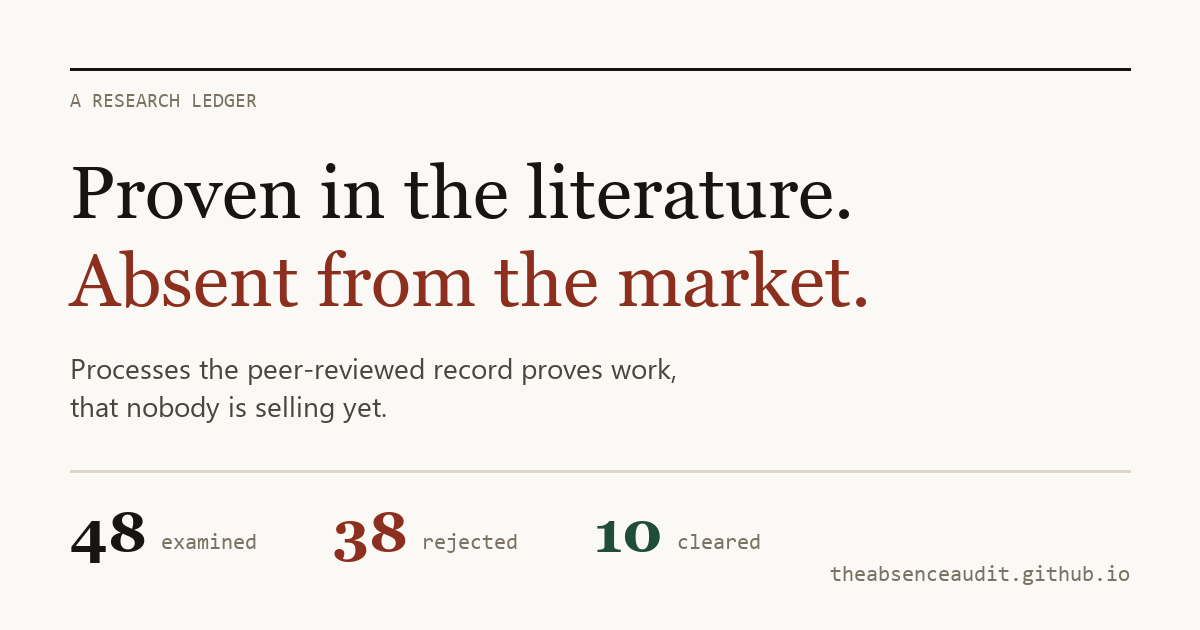
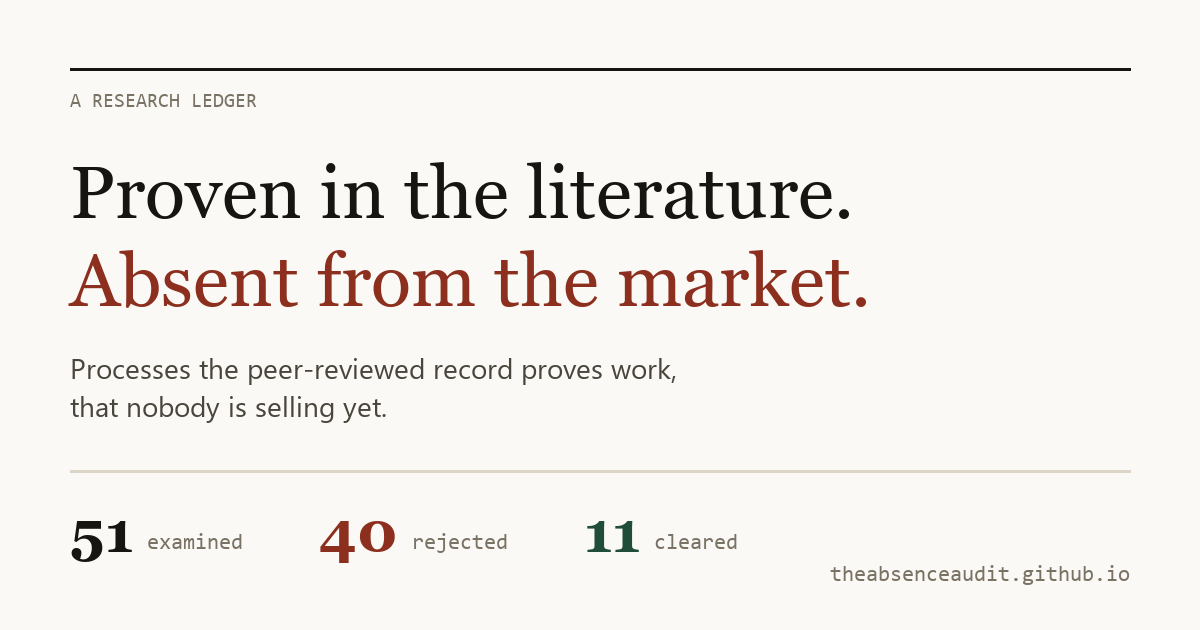
Ledger update 2026-09-01 17:30

Changed region(s): [[0.2467, 0.8143, 0.4317, 0.9048], [0.0617, 0.8143, 0.2158, 0.9048], [0.4933, 0.8143, 0.6475, 0.8746]]

diff --git a/index.html b/index.html
@@ -15,18 +15,18 @@
 <meta property="og:site_name" content="The Absence Audit">
 <meta property="og:url" content="https://theabsenceaudit.com/">
 <meta property="og:title" content="Proven in the literature. Absent from the market.">
-<meta property="og:description" content="48 concepts examined, 38 rejected, 10 cleared. We read the peer-reviewed record for processes that work, cost almost nothing to start, and that nobody is selling — then we try to destroy them, and publish the autopsies.">
+<meta property="og:description" content="51 concepts examined, 40 rejected, 11 cleared. We read the peer-reviewed record for processes that work, cost almost nothing to start, and that nobody is selling — then we try to destroy them, and publish the autopsies.">
 <meta property="og:image" content="https://theabsenceaudit.com/og-image.png">
 <meta property="og:image:secure_url" content="https://theabsenceaudit.com/og-image.png">
 <meta property="og:image:width" content="1200">
 <meta property="og:image:height" content="630">
 <meta property="og:image:type" content="image/png">
-<meta property="og:image:alt" content="The Absence Audit — 48 concepts examined, 38 rejected, 10 cleared">
+<meta property="og:image:alt" content="The Absence Audit — 51 concepts examined, 40 rejected, 11 cleared">
 <meta property="og:locale" content="en_GB">
 
 <meta name="twitter:card" content="summary_large_image">
 <meta name="twitter:title" content="Proven in the literature. Absent from the market.">
-<meta name="twitter:description" content="48 concepts examined, 38 rejected, 10 cleared. The rejections are published in full.">
+<meta name="twitter:description" content="51 concepts examined, 40 rejected, 11 cleared. The rejections are published in full.">
 <meta name="twitter:image" content="https://theabsenceaudit.com/og-image.png">
 <meta name="twitter:image:alt" content="The Absence Audit ledger card">
 
@@ -38,7 +38,7 @@
 
 <link rel="preload" href="/fonts/newsreader-var.woff2" as="font" type="font/woff2" crossorigin>
 <link rel="preload" href="/fonts/ibm-plex-sans-var.woff2" as="font" type="font/woff2" crossorigin>
-<link rel="stylesheet" href="/style.css?v=1788244215">
+<link rel="stylesheet" href="/style.css?v=1788276632">
 
 <script type="application/ld+json">
 {
@@ -56,11 +56,11 @@
       "@type": "Dataset",
       "@id": "https://theabsenceaudit.com/#ledger",
       "name": "The Absence Audit ledger",
-      "description": "48 venture concepts screened against seven gates for scientific backing, commercial absence, unit margins, capital intensity, production velocity, market size and measured superiority over a named incumbent. 38 rejected, 10 cleared. Every rejection is published with its specific failure mode.",
+      "description": "51 venture concepts screened against seven gates for scientific backing, commercial absence, unit margins, capital intensity, production velocity, market size and measured superiority over a named incumbent. 40 rejected, 11 cleared. Every rejection is published with its specific failure mode.",
       "url": "https://theabsenceaudit.com/ledger/",
       "isAccessibleForFree": true,
       "creator": {"@type": "Organization", "name": "The Absence Audit", "url": "https://theabsenceaudit.com/"},
-      "dateModified": "2026-09-01T08:30:15+02:00",
+      "dateModified": "2026-09-01T17:30:32+02:00",
       "keywords": ["venture concepts","peer-reviewed literature","commercial absence","unit economics","technology transfer","research commercialisation"],
       "variableMeasured": [
         {"@type":"PropertyValue","name":"Superiority margin vs named incumbent"},
@@ -137,13 +137,13 @@
 
     <aside class="tally">
       <h2>Ledger to date</h2>
-      <dl><dt>Concepts generated</dt><dd class="big">48</dd>
-<dt>Rejected on evidence</dt><dd class="big kill">38</dd>
-<dt>Survived every gate</dt><dd class="big live">10</dd>
-<dt>Survival rate</dt><dd class="">21%</dd>
-<dt>Citations resolved</dt><dd class="">851</dd>
-<dt>Verified to DOI</dt><dd class="">230</dd>
-<dt>Words of analysis</dt><dd class="">90,685</dd></dl>
+      <dl><dt>Concepts generated</dt><dd class="big">51</dd>
+<dt>Rejected on evidence</dt><dd class="big kill">40</dd>
+<dt>Survived every gate</dt><dd class="big live">11</dd>
+<dt>Survival rate</dt><dd class="">22%</dd>
+<dt>Citations resolved</dt><dd class="">906</dd>
+<dt>Verified to DOI</dt><dd class="">235</dd>
+<dt>Words of analysis</dt><dd class="">97,501</dd></dl>
       <footer>Every figure above is produced by the pipeline itself, not written by hand.
       The rejection count is the honest one.</footer>
     </aside>
@@ -176,7 +176,7 @@
   <div class="wrap">
     <div class="section-head">
       <p class="eyebrow">The ledger</p>
-      <h2>The 10 that survived.</h2>
+      <h2>The 11 that survived.</h2>
       <p>Each one names the incumbent it beats and the measured margin of victory, taken from the cited literature. These are the entries subscribers receive in full — mechanism, operating protocol, economics, absence audit and sources.</p>
     </div>
     <div class="tbl-scroll">
@@ -194,10 +194,11 @@
 <tr><td><span class="concept">Commercial Production of Pediocin PA-1 Biopreservative via Low-CapEx Fermentation</span><span class="disc">Biotechnology / Food Safety</span></td><td class="metric">Nisin (E234)</td><td class="metric">22x lower IC50 against Listeria monocytogenes compared to Nisin (0.10-7.34 ng/mL vs 2.2-781 ng/mL)</td><td class="delta">&gt;22×</td><td class="verdict pass">Cleared</td><td class="row-cta"><a class="row-btn row-btn--buy" href="https://theabsenceaudit.kit.com/products/commercial-production-of-pediocin-pa-1" rel="noopener" aria-label="Buy the full dossier for Commercial Production of Pediocin PA-1 Biopreservative via Low-CapEx Fermentation for $49">Full dossier <span class="row-btn__price">$49</span></a></td></tr>
 <tr><td><span class="concept">Mechanochemical Covalent Triazine Frameworks (CTFs) via Solvent-Free Cyclotrimerization</span><span class="disc">Polymer Chemistry / Water Remediation</span></td><td class="metric">Premium Coconut Shell Granular Activated Carbon (GAC)</td><td class="metric">903.0 mg/g PFOA adsorption capacity vs 43.4 mg/g for Premium GAC</td><td class="delta">&gt;20.8×</td><td class="verdict pass">Cleared</td><td class="row-cta"><a class="row-btn row-btn--buy" href="/ledger/" rel="noopener" aria-label="Buy the Mechanochemical Covalent Triazine Frameworks (CTFs) via Solvent-Free Cyclotrimerization dossier ($49) via Full Ledger Access">Full dossier <span class="row-btn__price">$49</span></a></td></tr>
 <tr><td><span class="concept">Polyimide-Reinforced Silica Aerogel Blankets via Ambient Pressure Drying</span><span class="disc">Materials Science / Thermal Insulation</span></td><td class="metric">Polyurethane (PU) Foam Board</td><td class="metric">14.0 R-value per inch vs 6.5 R-value per inch for Polyurethane foam board</td><td class="delta">&gt;2.15×</td><td class="verdict pass">Cleared</td><td class="row-cta"><a class="row-btn row-btn--buy" href="/ledger/" rel="noopener" aria-label="Buy the Polyimide-Reinforced Silica Aerogel Blankets via Ambient Pressure Drying dossier ($49) via Full Ledger Access">Full dossier <span class="row-btn__price">$49</span></a></td></tr>
-<tr><td><span class="concept">Cement-Free Refractory Castables via Potassium-Activated Metakaolin Geopolymerization</span><span class="disc">Ceramics / Refractory Materials</span></td><td class="metric">Calcium Aluminate Cement (CAC) Castables</td><td class="metric">Categorical elimination of 24-48 hr slow bake heat-up schedule (zero steam spalling) and &gt;2x high-temperature CMOR flexural strength (39.1 MPa)</td><td class="delta">&gt;2×</td><td class="verdict pass">Cleared</td><td class="row-cta"><a class="row-btn row-btn--buy" href="/ledger/" rel="noopener" aria-label="Buy the Cement-Free Refractory Castables via Potassium-Activated Metakaolin Geopolymerization dossier ($49) via Full Ledger Access">Full dossier <span class="row-btn__price">$49</span></a></td></tr></tbody>
+<tr><td><span class="concept">Cement-Free Refractory Castables via Potassium-Activated Metakaolin Geopolymerization</span><span class="disc">Ceramics / Refractory Materials</span></td><td class="metric">Calcium Aluminate Cement (CAC) Castables</td><td class="metric">Categorical elimination of 24-48 hr slow bake heat-up schedule (zero steam spalling) and &gt;2x high-temperature CMOR flexural strength (39.1 MPa)</td><td class="delta">&gt;2×</td><td class="verdict pass">Cleared</td><td class="row-cta"><a class="row-btn row-btn--buy" href="/ledger/" rel="noopener" aria-label="Buy the Cement-Free Refractory Castables via Potassium-Activated Metakaolin Geopolymerization dossier ($49) via Full Ledger Access">Full dossier <span class="row-btn__price">$49</span></a></td></tr>
+<tr><td><span class="concept">Inositol Hexaphosphate (IP6) Substrate Passivation via Ambient Immersion</span><span class="disc">Surface Chemistry</span></td><td class="metric">Zinc Phosphate Conversion Coating</td><td class="metric">ASTM B117 Neutral Salt Spray resistance of 268 hours vs 120 hours for Zinc Phosphate</td><td class="delta">&gt;2.23×</td><td class="verdict pass">Cleared</td><td class="row-cta"><a class="row-btn row-btn--buy" href="/ledger/" rel="noopener" aria-label="Buy the Inositol Hexaphosphate (IP6) Substrate Passivation via Ambient Immersion dossier ($49) via Full Ledger Access">Full dossier <span class="row-btn__price">$49</span></a></td></tr></tbody>
       </table>
     </div>
-    <p style="margin-top:1.6rem"><a href="/ledger/" style="font-weight:600">Search all 48 concepts, including every rejection &rarr;</a></p>
+    <p style="margin-top:1.6rem"><a href="/ledger/" style="font-weight:600">Search all 51 concepts, including every rejection &rarr;</a></p>
   </div>
 </section>
 
@@ -235,14 +236,14 @@
   <div class="wrap">
     <div class="section-head">
       <p class="eyebrow">The graveyard</p>
-      <h2>38 concepts failed. Here is how two of them died.</h2>
+      <h2>40 concepts failed. Here is how two of them died.</h2>
       <p>No other research service will show you this, because showing it means admitting
       most ideas do not survive contact with evidence.</p>
     </div>
     <div class="kills"><article class="kill-item"><p class="kill-code">Voided — dead incumbent</p><h3>Biomanufactured magnetosomes for MRI contrast</h3><p>Genuinely 2.4–3.5× the relaxivity of its named comparator. That comparator was Feridex — withdrawn from the market in 2008. The margin model was anchored to the historical price of a product discontinued for lack of demand. Regulatory path priced at $35M and 84 months.</p></article>
 <article class="kill-item"><p class="kill-code">Voided — straw incumbent</p><h3>Plant-urease enzyme-induced carbonate precipitation</h3><p>Benchmarked against MICP, a rival laboratory technique that never reached market. Against the real incumbent — Portland cement and soil-cement at 1.5–8 MPa — its 6.41 MPa sits inside the ordinary range. Beating another lab proves nothing.</p></article></div>
     <p style="margin-top:1.6rem"><a href="/ledger/?v=0" style="font-weight:600;color:var(--paper)">
-      Browse all 38 rejections by failure mode &rarr;</a></p>
+      Browse all 40 rejections by failure mode &rarr;</a></p>
   </div>
 </section>
 
@@ -270,7 +271,7 @@
     </nav>
   </div>
   <div class="wrap">
-    <p class="disclaimer" style="margin-bottom:.9rem">Ledger last updated 01 September 2026, 08:30 · 48 concepts examined · 38 rejected · 10 cleared</p>
+    <p class="disclaimer" style="margin-bottom:.9rem">Ledger last updated 01 September 2026, 17:30 · 51 concepts examined · 40 rejected · 11 cleared</p>
     <p class="disclaimer">Published for research and educational purposes. Nothing here is investment, legal, regulatory or engineering advice, and no commercial outcome is promised or implied. Concepts are drawn from published scientific literature and have not been commercially validated; several involve chemical, biological or regulated processes that require appropriate expertise, facilities, permits and safety controls. Independently verify every figure, citation and regulatory requirement before committing capital.</p>
   </div>
 </footer>

diff --git a/404.html b/404.html
@@ -15,18 +15,18 @@
 <meta property="og:site_name" content="The Absence Audit">
 <meta property="og:url" content="https://theabsenceaudit.com/">
 <meta property="og:title" content="Proven in the literature. Absent from the market.">
-<meta property="og:description" content="48 concepts examined, 38 rejected, 10 cleared. We read the peer-reviewed record for processes that work, cost almost nothing to start, and that nobody is selling — then we try to destroy them, and publish the autopsies.">
+<meta property="og:description" content="51 concepts examined, 40 rejected, 11 cleared. We read the peer-reviewed record for processes that work, cost almost nothing to start, and that nobody is selling — then we try to destroy them, and publish the autopsies.">
 <meta property="og:image" content="https://theabsenceaudit.com/og-image.png">
 <meta property="og:image:secure_url" content="https://theabsenceaudit.com/og-image.png">
 <meta property="og:image:width" content="1200">
 <meta property="og:image:height" content="630">
 <meta property="og:image:type" content="image/png">
-<meta property="og:image:alt" content="The Absence Audit — 48 concepts examined, 38 rejected, 10 cleared">
+<meta property="og:image:alt" content="The Absence Audit — 51 concepts examined, 40 rejected, 11 cleared">
 <meta property="og:locale" content="en_GB">
 
 <meta name="twitter:card" content="summary_large_image">
 <meta name="twitter:title" content="Proven in the literature. Absent from the market.">
-<meta name="twitter:description" content="48 concepts examined, 38 rejected, 10 cleared. The rejections are published in full.">
+<meta name="twitter:description" content="51 concepts examined, 40 rejected, 11 cleared. The rejections are published in full.">
 <meta name="twitter:image" content="https://theabsenceaudit.com/og-image.png">
 <meta name="twitter:image:alt" content="The Absence Audit ledger card">
 
@@ -38,7 +38,7 @@
 
 <link rel="preload" href="/fonts/newsreader-var.woff2" as="font" type="font/woff2" crossorigin>
 <link rel="preload" href="/fonts/ibm-plex-sans-var.woff2" as="font" type="font/woff2" crossorigin>
-<link rel="stylesheet" href="/style.css?v=1788244215">
+<link rel="stylesheet" href="/style.css?v=1788276632">
 
 <script type="application/ld+json">
 {
@@ -56,11 +56,11 @@
       "@type": "Dataset",
       "@id": "https://theabsenceaudit.com/#ledger",
       "name": "The Absence Audit ledger",
-      "description": "48 venture concepts screened against seven gates for scientific backing, commercial absence, unit margins, capital intensity, production velocity, market size and measured superiority over a named incumbent. 38 rejected, 10 cleared. Every rejection is published with its specific failure mode.",
+      "description": "51 venture concepts screened against seven gates for scientific backing, commercial absence, unit margins, capital intensity, production velocity, market size and measured superiority over a named incumbent. 40 rejected, 11 cleared. Every rejection is published with its specific failure mode.",
       "url": "https://theabsenceaudit.com/ledger/",
       "isAccessibleForFree": true,
       "creator": {"@type": "Organization", "name": "The Absence Audit", "url": "https://theabsenceaudit.com/"},
-      "dateModified": "2026-09-01T08:30:15+02:00",
+      "dateModified": "2026-09-01T17:30:32+02:00",
       "keywords": ["venture concepts","peer-reviewed literature","commercial absence","unit economics","technology transfer","research commercialisation"],
       "variableMeasured": [
         {"@type":"PropertyValue","name":"Superiority margin vs named incumbent"},
@@ -119,7 +119,7 @@
     </nav>
   </div>
   <div class="wrap">
-    <p class="disclaimer" style="margin-bottom:.9rem">Ledger last updated 01 September 2026, 08:30 · 48 concepts examined · 38 rejected · 10 cleared</p>
+    <p class="disclaimer" style="margin-bottom:.9rem">Ledger last updated 01 September 2026, 17:30 · 51 concepts examined · 40 rejected · 11 cleared</p>
     <p class="disclaimer">Published for research and educational purposes. Nothing here is investment, legal, regulatory or engineering advice, and no commercial outcome is promised or implied. Concepts are drawn from published scientific literature and have not been commercially validated; several involve chemical, biological or regulated processes that require appropriate expertise, facilities, permits and safety controls. Independently verify every figure, citation and regulatory requirement before committing capital.</p>
   </div>
 </footer>

diff --git a/c/terephthalaldehyde-crosslinked-polyimine-vitrimers-via-catalyst-free-s/index.html b/c/terephthalaldehyde-crosslinked-polyimine-vitrimers-via-catalyst-free-s/index.html
@@ -1,0 +1,43 @@
+<!DOCTYPE html>
+<html lang="en">
+<head>
+<meta charset="utf-8">
+<meta name="viewport" content="width=device-width, initial-scale=1">
+<title>Terephthalaldehyde-Crosslinked Polyimine Vitrimers via Catalyst-F… — rejected | The Absence Audit</title>
+<meta name="description" content="Rejected — Tensile strength of 97.0 MPa vs 70-80 MPa for BPA Epoxy (1.2x improvement); 5 reprocessability cycles vs 0 for BPA Epoxy">
+<link rel="canonical" href="https://theabsenceaudit.com/c/terephthalaldehyde-crosslinked-polyimine-vitrimers-via-catalyst-free-s/">
+<meta name="theme-color" content="#FBF9F5">
+<meta property="og:type" content="article">
+<meta property="og:site_name" content="The Absence Audit">
+<meta property="og:url" content="https://theabsenceaudit.com/c/terephthalaldehyde-crosslinked-polyimine-vitrimers-via-catalyst-free-s/">
+<meta property="og:title" content="Terephthalaldehyde-Crosslinked Polyimine Vitrimers via Catalyst-Free Solution Casting">
+<meta property="og:description" content="Rejected — Tensile strength of 97.0 MPa vs 70-80 MPa for BPA Epoxy (1.2x improvement); 5 reprocessability cycles vs 0 for BPA Epoxy">
+<meta property="og:image" content="https://theabsenceaudit.com/og-image.png">
+<meta name="twitter:card" content="summary_large_image">
+<link rel="icon" href="/favicon.ico" sizes="any">
+<link rel="stylesheet" href="/style.css?v=1788276632">
+</head>
+<body>
+<a class="skip-link" href="#main">Skip to content</a>
+<header class="masthead"><div class="wrap">
+  <a class="logo" href="/">The Absence <span>Audit</span></a>
+  <nav><a href="/ledger/">The ledger</a><a href="/#join">Get it free</a></nav>
+</div></header>
+<main id="main"><div class="wrap" style="padding:3.2rem 0 4rem;max-width:76ch">
+  <p class="eyebrow"><a href="/ledger/" style="color:inherit">Ledger</a> · 2026-09-01 · Polymer Chemistry</p>
+  <h1 style="font-size:clamp(1.9rem,3.6vw,2.9rem)">Terephthalaldehyde-Crosslinked Polyimine Vitrimers via Catalyst-Free Solution Casting</h1>
+  <p style="margin-top:1.1rem"><span class="verdict ">Rejected</span></p>
+  
+  <p class="lede">This concept did <strong>not</strong> clear the framework. The reasoning is published in full below.</p><h3>Assessment</h3><p>While the vitrimer achieves excellent unit economics and rapid speed to market, its tensile strength gain over BPA epoxy is only 1.2x (97 MPa vs 70-80 MPa), falling short of the required 2x step-change bar. The reprocessability advantage represents a circularity/sustainability preference attribute rather than a performance dimension the target buyer currently pays for. Consequently, the concept fails the strict superiority gate.</p><h3>Claimed advantage</h3><p>Tensile strength of 97.0 MPa vs 70-80 MPa for BPA Epoxy (1.2x improvement); 5 reprocessability cycles vs 0 for BPA Epoxy</p><p><strong>Named comparator:</strong> Bisphenol A (BPA) Epoxy Resin</p><h3>Also flagged</h3><ul><li>Evidence rests on non-peer-reviewed sources</li><li>Price parity asserted, not sourced</li></ul><p style="margin-top:1.6rem;font-size:.93rem;color:var(--ink-2)">A rejection is not a claim that the science is wrong. It means the venture case did not survive: the comparator was not what the buyer actually buys, the comparison was not like-for-like, the advantage fell short of a step change, or the capital and time to first revenue were prohibitive.</p>
+  <hr class="rule" style="margin:2.6rem 0 1.6rem">
+  <p style="font-size:.9rem;color:var(--ink-3)">Assessed 2026-09-01 against seven gates plus the
+  voiding sub-tests. <a href="/#thesis">How the method works</a> ·
+  <a href="/ledger/">Browse all concepts</a></p>
+</div></main>
+<footer class="site"><div class="wrap"><span>The Absence Audit</span>
+<nav><a href="/">Home</a><a href="/ledger/">Ledger</a></nav></div>
+<div class="wrap"><p class="disclaimer">Research and educational purposes only. Not investment,
+legal, regulatory or engineering advice; no commercial outcome is promised or implied. Concepts are
+drawn from published literature and are not commercially validated. Verify every figure and
+regulatory requirement independently before committing capital.</p></div></footer>
+</body></html>

diff --git a/c/lignosulfonate-acrylamide-graft-copolymers-ls-g-paam-via-redox-initiat/index.html b/c/lignosulfonate-acrylamide-graft-copolymers-ls-g-paam-via-redox-initiat/index.html
@@ -1,0 +1,43 @@
+<!DOCTYPE html>
+<html lang="en">
+<head>
+<meta charset="utf-8">
+<meta name="viewport" content="width=device-width, initial-scale=1">
+<title>Lignosulfonate-Acrylamide Graft Copolymers (LS-g-PAAm) via Redox-… — rejected | The Absence Audit</title>
+<meta name="description" content="Rejected — HTHP Filtration Loss at 180°C of 7.2 mL vs 27.4 mL for Standard Viscosifier/Bentonite Base (3.8x reduction)">
+<link rel="canonical" href="https://theabsenceaudit.com/c/lignosulfonate-acrylamide-graft-copolymers-ls-g-paam-via-redox-initiat/">
+<meta name="theme-color" content="#FBF9F5">
+<meta property="og:type" content="article">
+<meta property="og:site_name" content="The Absence Audit">
+<meta property="og:url" content="https://theabsenceaudit.com/c/lignosulfonate-acrylamide-graft-copolymers-ls-g-paam-via-redox-initiat/">
+<meta property="og:title" content="Lignosulfonate-Acrylamide Graft Copolymers (LS-g-PAAm) via Redox-Initiated Aqueous Polymer…">
+<meta property="og:description" content="Rejected — HTHP Filtration Loss at 180°C of 7.2 mL vs 27.4 mL for Standard Viscosifier/Bentonite Base (3.8x reduction)">
+<meta property="og:image" content="https://theabsenceaudit.com/og-image.png">
+<meta name="twitter:card" content="summary_large_image">
+<link rel="icon" href="/favicon.ico" sizes="any">
+<link rel="stylesheet" href="/style.css?v=1788276632">
+</head>
+<body>
+<a class="skip-link" href="#main">Skip to content</a>
+<header class="masthead"><div class="wrap">
+  <a class="logo" href="/">The Absence <span>Audit</span></a>
+  <nav><a href="/ledger/">The ledger</a><a href="/#join">Get it free</a></nav>
+</div></header>
+<main id="main"><div class="wrap" style="padding:3.2rem 0 4rem;max-width:76ch">
+  <p class="eyebrow"><a href="/ledger/" style="color:inherit">Ledger</a> · 2026-09-01 · Polymer / Industrial Chemistry</p>
+  <h1 style="font-size:clamp(1.9rem,3.6vw,2.9rem)">Lignosulfonate-Acrylamide Graft Copolymers (LS-g-PAAm) via Redox-Initiated Aqueous Polymerization</h1>
+  <p style="margin-top:1.1rem"><span class="verdict ">Rejected</span></p>
+  
+  <p class="lede">This concept did <strong>not</strong> clear the framework. The reasoning is published in full below.</p><h3>Why it failed</h3><ul><li>Voided by: Illegitimate incumbent</li></ul><h3>Assessment</h3><p>The primary performance comparison in the report compares LS-g-PAAm against an unamended bentonite mud base (a negative control baseline) rather than an actual commercial high-temperature fluid-loss additive. Under sub-test A and E, comparing against a negative control invalidates incumbent legitimacy and forces a failure on superiority.</p><h3>Claimed advantage</h3><p>HTHP Filtration Loss at 180°C of 7.2 mL vs 27.4 mL for Standard Viscosifier/Bentonite Base (3.8x reduction)</p><p><strong>Named comparator:</strong> Standard Viscosifier / Bentonite Base</p><h3>Also flagged</h3><ul><li>Evidence rests on non-peer-reviewed sources</li><li>Price parity asserted, not sourced</li></ul><p style="margin-top:1.6rem;font-size:.93rem;color:var(--ink-2)">A rejection is not a claim that the science is wrong. It means the venture case did not survive: the comparator was not what the buyer actually buys, the comparison was not like-for-like, the advantage fell short of a step change, or the capital and time to first revenue were prohibitive.</p>
+  <hr class="rule" style="margin:2.6rem 0 1.6rem">
+  <p style="font-size:.9rem;color:var(--ink-3)">Assessed 2026-09-01 against seven gates plus the
+  voiding sub-tests. <a href="/#thesis">How the method works</a> ·
+  <a href="/ledger/">Browse all concepts</a></p>
+</div></main>
+<footer class="site"><div class="wrap"><span>The Absence Audit</span>
+<nav><a href="/">Home</a><a href="/ledger/">Ledger</a></nav></div>
+<div class="wrap"><p class="disclaimer">Research and educational purposes only. Not investment,
+legal, regulatory or engineering advice; no commercial outcome is promised or implied. Concepts are
+drawn from published literature and are not commercially validated. Verify every figure and
+regulatory requirement independently before committing capital.</p></div></footer>
+</body></html>

diff --git a/c/inositol-hexaphosphate-ip6-substrate-passivation-via-ambient-immersion/index.html b/c/inositol-hexaphosphate-ip6-substrate-passivation-via-ambient-immersion/index.html
@@ -1,0 +1,43 @@
+<!DOCTYPE html>
+<html lang="en">
+<head>
+<meta charset="utf-8">
+<meta name="viewport" content="width=device-width, initial-scale=1">
+<title>Inositol Hexaphosphate (IP6) Substrate Passivation via Ambient Im… — cleared | The Absence Audit</title>
+<meta name="description" content="Cleared all seven gates — ASTM B117 Neutral Salt Spray resistance of 268 hours vs 120 hours for Zinc Phosphate (2.23x improvement)">
+<link rel="canonical" href="https://theabsenceaudit.com/c/inositol-hexaphosphate-ip6-substrate-passivation-via-ambient-immersion/">
+<meta name="theme-color" content="#FBF9F5">
+<meta property="og:type" content="article">
+<meta property="og:site_name" content="The Absence Audit">
+<meta property="og:url" content="https://theabsenceaudit.com/c/inositol-hexaphosphate-ip6-substrate-passivation-via-ambient-immersion/">
+<meta property="og:title" content="Inositol Hexaphosphate (IP6) Substrate Passivation via Ambient Immersion">
+<meta property="og:description" content="Cleared all seven gates — ASTM B117 Neutral Salt Spray resistance of 268 hours vs 120 hours for Zinc Phosphate (2.23x improvement)">
+<meta property="og:image" content="https://theabsenceaudit.com/og-image.png">
+<meta name="twitter:card" content="summary_large_image">
+<link rel="icon" href="/favicon.ico" sizes="any">
+<link rel="stylesheet" href="/style.css?v=1788276632">
+</head>
+<body>
+<a class="skip-link" href="#main">Skip to content</a>
+<header class="masthead"><div class="wrap">
+  <a class="logo" href="/">The Absence <span>Audit</span></a>
+  <nav><a href="/ledger/">The ledger</a><a href="/#join">Get it free</a></nav>
+</div></header>
+<main id="main"><div class="wrap" style="padding:3.2rem 0 4rem;max-width:76ch">
+  <p class="eyebrow"><a href="/ledger/" style="color:inherit">Ledger</a> · 2026-09-01 · Surface Chemistry</p>
+  <h1 style="font-size:clamp(1.9rem,3.6vw,2.9rem)">Inositol Hexaphosphate (IP6) Substrate Passivation via Ambient Immersion</h1>
+  <p style="margin-top:1.1rem"><span class="verdict pass">Cleared</span></p>
+  
+  <p class="lede">This concept cleared all seven gates and every voiding sub-test.</p><table><tbody><tr><td style="width:34%"><strong>Incumbent displaced</strong></td><td>Zinc Phosphate Conversion Coating</td></tr><tr><td><strong>Measured advantage</strong></td><td>ASTM B117 Neutral Salt Spray resistance of 268 hours vs 120 hours for Zinc Phosphate (2.23x improvement)</td></tr><tr><td><strong>Time to first revenue</strong></td><td>3 months</td></tr><tr><td><strong>Gross margin at parity</strong></td><td>70.0%</td></tr><tr><td><strong>Startup CapEx</strong></td><td>$41,000</td></tr></tbody></table><div class="promise" style="margin-top:2rem"><h3>Buy the full dossier</h3><p style="margin:0 0 1rem;font-size:.95rem;color:var(--ink-2)">Mechanism, operating protocol with real conditions and yields, computed unit economics with a six-scenario stress test, the absence audit, and every resolved citation.</p><p style="margin:0"><a href="/ledger/" rel="noopener" style="font-weight:600" aria-label="Buy the full dossier for Inositol Hexaphosphate (IP6) Substrate Passivation via Ambient Immersion for $49">Buy the full dossier — $49 via Full Ledger Access &rarr;</a></p></div>
+  <hr class="rule" style="margin:2.6rem 0 1.6rem">
+  <p style="font-size:.9rem;color:var(--ink-3)">Assessed 2026-09-01 against seven gates plus the
+  voiding sub-tests. <a href="/#thesis">How the method works</a> ·
+  <a href="/ledger/">Browse all concepts</a></p>
+</div></main>
+<footer class="site"><div class="wrap"><span>The Absence Audit</span>
+<nav><a href="/">Home</a><a href="/ledger/">Ledger</a></nav></div>
+<div class="wrap"><p class="disclaimer">Research and educational purposes only. Not investment,
+legal, regulatory or engineering advice; no commercial outcome is promised or implied. Concepts are
+drawn from published literature and are not commercially validated. Verify every figure and
+regulatory requirement independently before committing capital.</p></div></footer>
+</body></html>

diff --git a/ledger/index.html b/ledger/index.html
@@ -14,7 +14,7 @@
 <meta property="og:image" content="https://theabsenceaudit.com/og-image.png">
 <meta name="twitter:card" content="summary_large_image">
 <link rel="icon" href="/favicon.ico" sizes="any">
-<link rel="stylesheet" href="/style.css?v=1788244215">
+<link rel="stylesheet" href="/style.css?v=1788276632">
 <style>
   .toolbar{position:sticky;top:0;z-index:20;background:var(--paper);
     border-bottom:1px solid var(--rule);padding:1.1rem 0}

diff --git a/c/polyimide-reinforced-silica-aerogel-blankets-via-ambient-pressure-dryi/index.html b/c/polyimide-reinforced-silica-aerogel-blankets-via-ambient-pressure-dryi/index.html
@@ -15,7 +15,7 @@
 <meta property="og:image" content="https://theabsenceaudit.com/images/sector/aerogel-blankets-insulation.jpg">
 <meta name="twitter:card" content="summary_large_image">
 <link rel="icon" href="/favicon.ico" sizes="any">
-<link rel="stylesheet" href="/style.css?v=1788244215">
+<link rel="stylesheet" href="/style.css?v=1788276632">
 </head>
 <body>
 <a class="skip-link" href="#main">Skip to content</a>

diff --git a/c/mechanochemical-covalent-triazine-frameworks-ctfs-via-solvent-free-cyc/index.html b/c/mechanochemical-covalent-triazine-frameworks-ctfs-via-solvent-free-cyc/index.html
@@ -15,7 +15,7 @@
 <meta property="og:image" content="https://theabsenceaudit.com/images/sector/ctfs-pfas-water-treatment.jpg">
 <meta name="twitter:card" content="summary_large_image">
 <link rel="icon" href="/favicon.ico" sizes="any">
-<link rel="stylesheet" href="/style.css?v=1788244215">
+<link rel="stylesheet" href="/style.css?v=1788276632">
 </head>
 <body>
 <a class="skip-link" href="#main">Skip to content</a>

diff --git a/c/liquid-metal-nanoparticle-conductive-ink-via-ultrasonic-probe-cavitati/index.html b/c/liquid-metal-nanoparticle-conductive-ink-via-ultrasonic-probe-cavitati/index.html
@@ -15,7 +15,7 @@
 <meta property="og:image" content="https://theabsenceaudit.com/images/sector/liquid-metal.jpg">
 <meta name="twitter:card" content="summary_large_image">
 <link rel="icon" href="/favicon.ico" sizes="any">
-<link rel="stylesheet" href="/style.css?v=1788244215">
+<link rel="stylesheet" href="/style.css?v=1788276632">
 </head>
 <body>
 <a class="skip-link" href="#main">Skip to content</a>

diff --git a/c/sustained-release-silk-fibroin-microneedle-matrices-via-lithium-bromid/index.html b/c/sustained-release-silk-fibroin-microneedle-matrices-via-lithium-bromid/index.html
@@ -15,7 +15,7 @@
 <meta property="og:image" content="https://theabsenceaudit.com/images/sector/microneedles.jpg">
 <meta name="twitter:card" content="summary_large_image">
 <link rel="icon" href="/favicon.ico" sizes="any">
-<link rel="stylesheet" href="/style.css?v=1788244215">
+<link rel="stylesheet" href="/style.css?v=1788276632">
 </head>
 <body>
 <a class="skip-link" href="#main">Skip to content</a>

diff --git a/c/ultra-high-strength-underwater-adhesives-via-in-situ-catechol-polymer/index.html b/c/ultra-high-strength-underwater-adhesives-via-in-situ-catechol-polymer/index.html
@@ -15,7 +15,7 @@
 <meta property="og:image" content="https://theabsenceaudit.com/images/sector/adhesives.jpg">
 <meta name="twitter:card" content="summary_large_image">
 <link rel="icon" href="/favicon.ico" sizes="any">
-<link rel="stylesheet" href="/style.css?v=1788244215">
+<link rel="stylesheet" href="/style.css?v=1788276632">
 </head>
 <body>
 <a class="skip-link" href="#main">Skip to content</a>

diff --git a/c/commercial-production-of-pediocin-pa-1-biopreservative-via-low-capex-f/index.html b/c/commercial-production-of-pediocin-pa-1-biopreservative-via-low-capex-f/index.html
@@ -15,7 +15,7 @@
 <meta property="og:image" content="https://theabsenceaudit.com/images/sector/pediocin.jpg">
 <meta name="twitter:card" content="summary_large_image">
 <link rel="icon" href="/favicon.ico" sizes="any">
-<link rel="stylesheet" href="/style.css?v=1788244215">
+<link rel="stylesheet" href="/style.css?v=1788276632">
 </head>
 <body>
 <a class="skip-link" href="#main">Skip to content</a>
